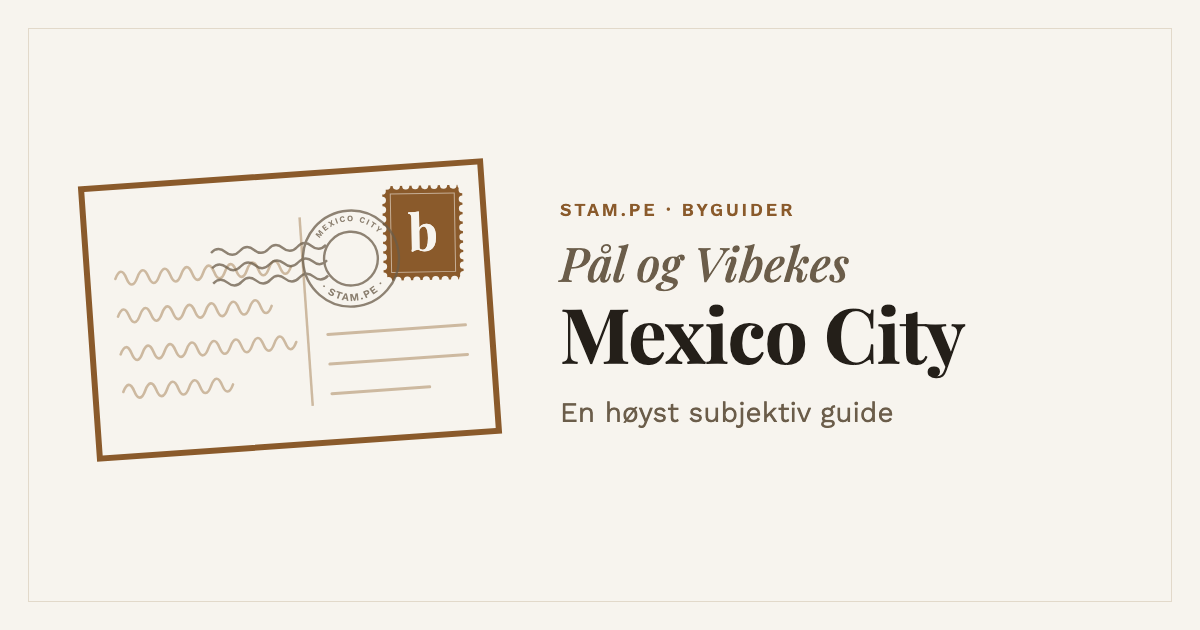
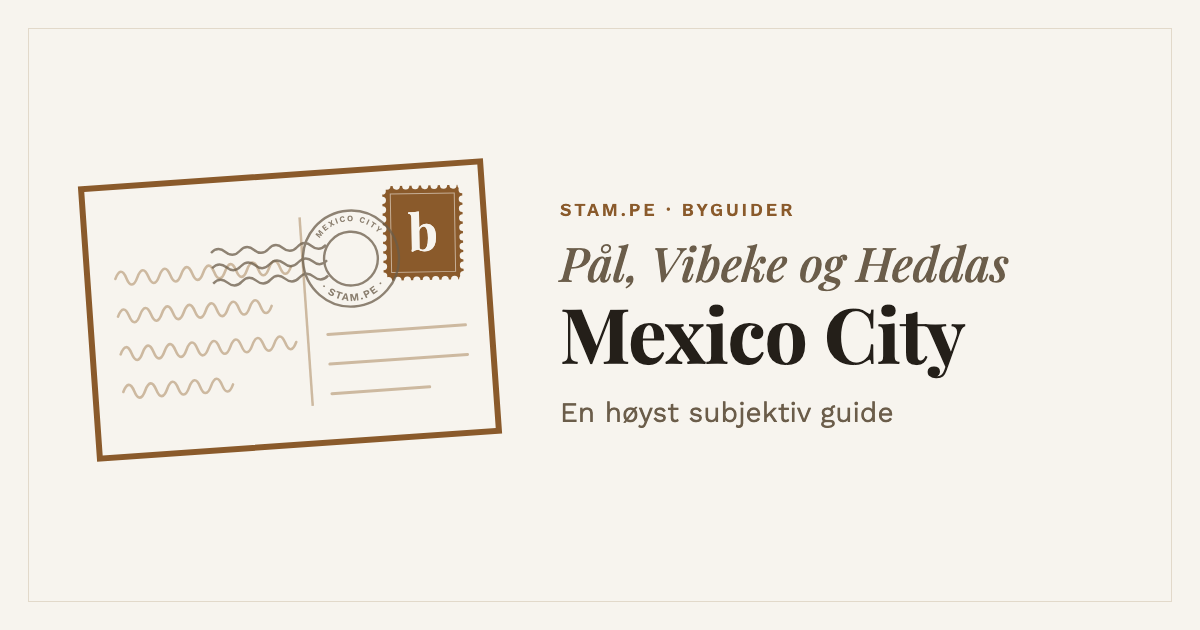
Mexico City: guiden heter «Pål, Vibeke og Heddas Mexico City»

Changed region(s): [[0.5242, 0.3921, 0.8633, 0.4825]]

diff --git a/mexico-city/index.html b/mexico-city/index.html
@@ -1,7 +1,7 @@
 <!DOCTYPE html>
 <html lang="no">
 <meta charset="utf-8"><meta name="viewport" content="width=device-width, initial-scale=1, viewport-fit=cover">
-<title>Pål og Vibekes Mexico City</title>
+<title>Pål, Vibeke og Heddas Mexico City</title>
 <link rel="apple-touch-icon" href="../bilder/ikon-mexico-city.png">
 <meta name="apple-mobile-web-app-title" content="Mexico City">
 <meta name="mobile-web-app-capable" content="yes">
@@ -10,12 +10,12 @@
 <meta property="og:type" content="website">
 <meta property="og:url" content="https://stam.pe/byguider/mexico-city/">
 <meta property="og:site_name" content="stam.pe">
-<meta property="og:title" content="Pål og Vibekes Mexico City">
+<meta property="og:title" content="Pål, Vibeke og Heddas Mexico City">
 <meta property="og:description" content="En høyst subjektiv guide.">
 <meta property="og:image" content="https://stam.pe/byguider/bilder/deling-mexico-city.png">
 <meta property="og:image:width" content="1200">
 <meta property="og:image:height" content="630">
-<meta property="og:image:alt" content="Postkort med frimerke og poststempel fra Mexico City, og teksten «Pål og Vibekes Mexico City»">
+<meta property="og:image:alt" content="Postkort med frimerke og poststempel fra Mexico City, og teksten «Pål, Vibeke og Heddas Mexico City»">
 <meta property="og:locale" content="nb_NO">
 <meta property="og:locale:alternate" content="en_GB">
 <meta name="twitter:card" content="summary_large_image">

diff --git a/NOTES.md b/NOTES.md
@@ -7,7 +7,7 @@ Oppdateres ved slutten av hver økt (`/avslutt`).
 
 Sist oppdatert: 8. november 2026.
 
-- 8.11.: Mexico City lagt inn som skjult by (`"skjult": true`), nås på stam.pe/byguider/mexico-city/. 95 oppføringer i sonene
+- 8.11.: Mexico City («Pål, Vibeke og Heddas Mexico City») lagt inn som skjult by (`"skjult": true`), nås på stam.pe/byguider/mexico-city/. 95 oppføringer i sonene
   Roma & Condesa, Centro & Juárez, Polanco & Chapultepec og Coyoacán & San Ángel, pluss gåturen Roma → Condesa (4,5 km, rutet
   til fots i OSM). 18 restauranter og Hotel Dama er fra Påls Obsidian-notat «Restauranter og hoteller Mexico» («Fra Påls liste»,
   de booket forrige gang er merket); resten er Claudes forslag ut fra SMAK.md, alle sjekket i Google Maps (åpne, Place ID, vurdering).
@@ -238,6 +238,7 @@ Sist oppdatert: 8. november 2026.
 
 ## Beslutningslogg
 
+- 2026-11-08: Mexico City-guiden heter «Pål, Vibeke og Heddas Mexico City». Delingsbildet beholdt filnavnet, siden byen var skjult og ikke delt ennå.
 - 2026-11-05: Hva som ikke publiseres, står i hvert repos `.gitattributes` (`export-ignore`), ikke i den felles workflowen.
   git archive respekterer det, også for forhåndsvisningene. Bieffekt: GitHubs «Download ZIP» mangler dokumentasjonen.
 - 2026-11-05: Dokumentasjonen publiseres ikke. Det er ikke for å skjule noe (repoene er offentlige), men så commits som bare

diff --git a/data/mexico-city.md b/data/mexico-city.md
@@ -1,7 +1,7 @@
 ---
-tittel: Pål og Vibekes Mexico City
+tittel: Pål, Vibeke og Heddas Mexico City
 undertittel: Nabolag, gater og steder verdt en omvei.
-tittel-en: Pål and Vibeke’s Mexico City
+tittel-en: Pål, Vibeke and Hedda’s Mexico City
 undertittel-en: Neighbourhoods, streets and places worth a detour.
 kicker: En høyst subjektiv guide
 kicker-en: An opinionated guide
